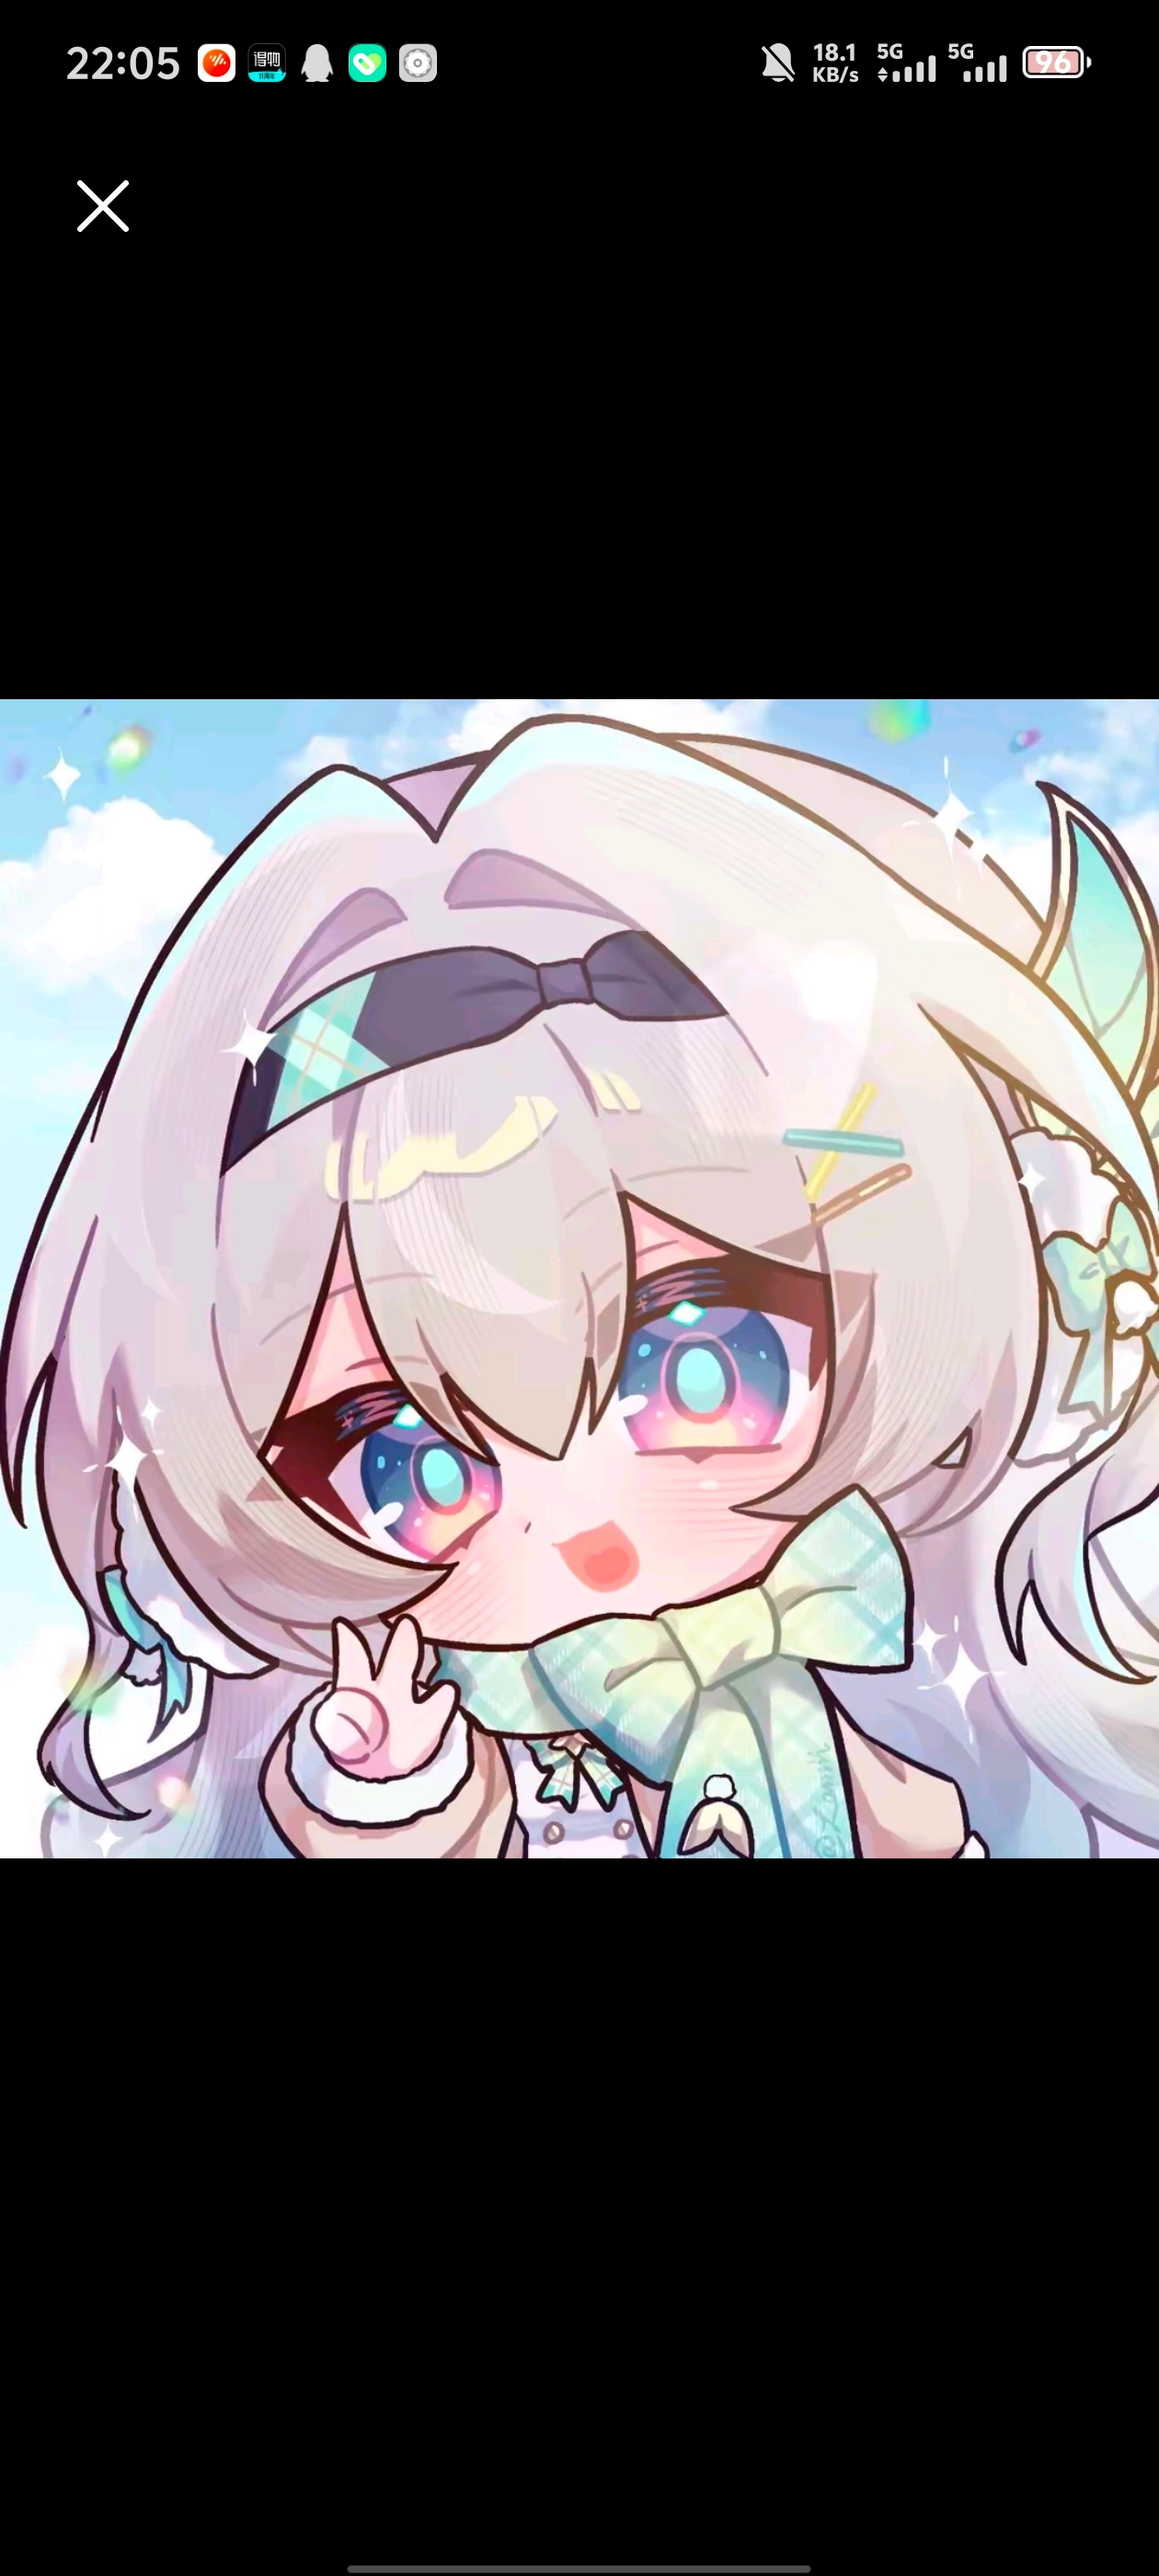
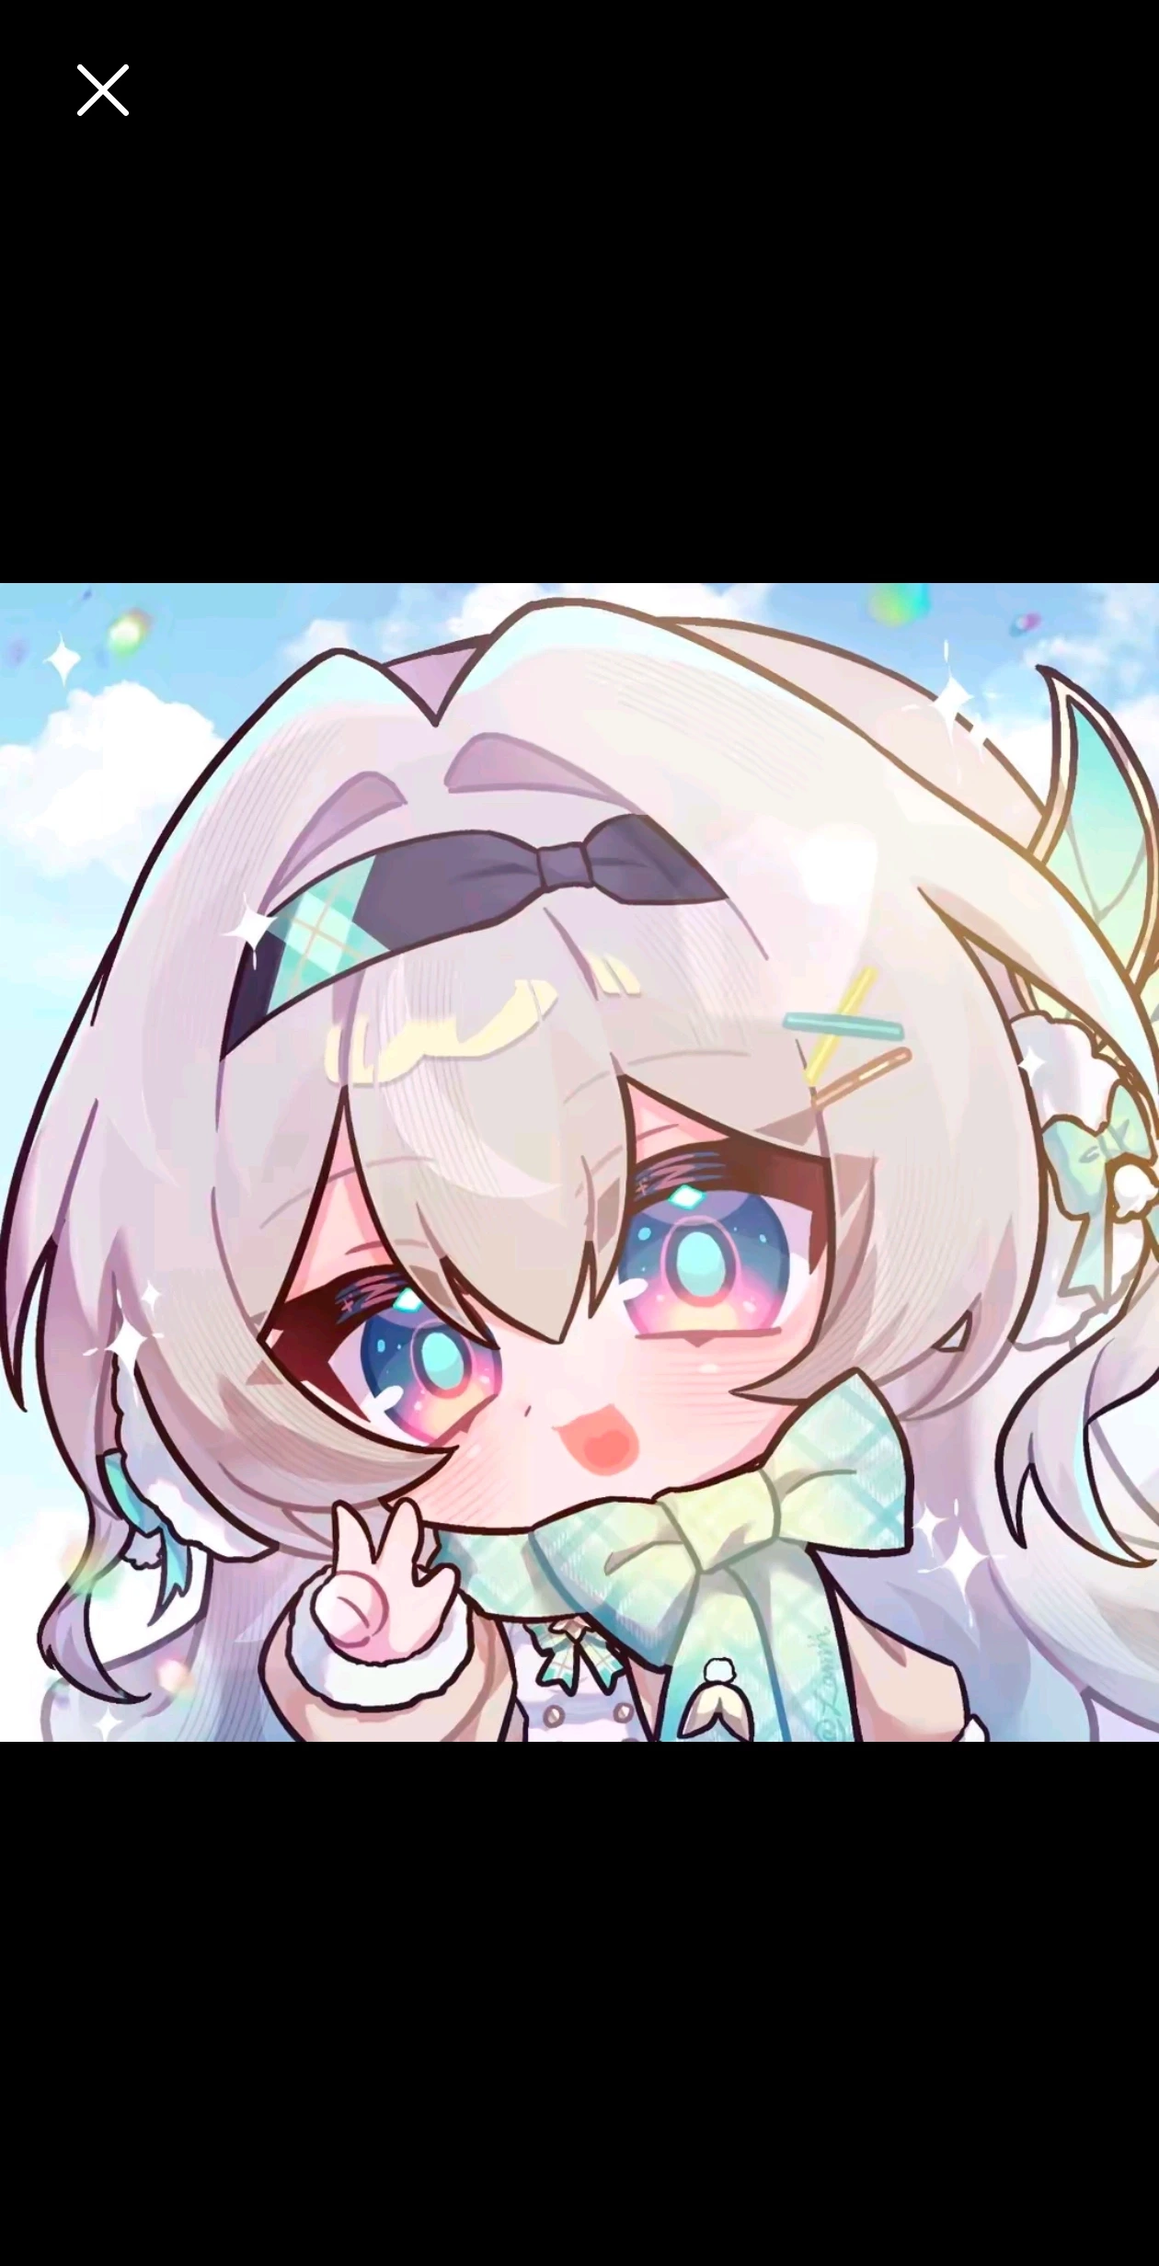
眼镜少女相册更名为昙露凝(纸嫁衣9罗浮梦女主)并补充6张官方图

Changed region(s): [[0.0, 0.25, 1.0, 0.7812], [0.0619, 0.0, 0.3714, 0.0938], [0.65, 0.0, 0.9286, 0.0312]]

diff --git a/crop_albums.py b/crop_albums.py
@@ -1,0 +1,70 @@
+# -*- coding: utf-8 -*-
+"""裁剪手机截图：去顶部状态栏和底部播放按钮，保留画面主体"""
+from PIL import Image
+import os, sys
+
+BASE = r"C:\Users\刘成毅\Doubao\chats\2026-09-30\new-chat\Mizuki-Blog\public\images\albums"
+
+# 需要裁剪的文件（相册相对路径）
+CROP_LIST = [
+    # 流萤收藏 - 手机截图
+    "firefly-collection/f-02.webp",   # 阳台（竖屏截图）
+    "firefly-collection/f-03.webp",   # 倚枕
+    "firefly-collection/f-04.webp",   # 水手服
+    "firefly-collection/f-05.webp",   # 托腮
+    "firefly-collection/f-06.webp",   # Q版托腮
+    "firefly-collection/f-07.webp",   # 小狗表情
+    "firefly-collection/f-08.webp",   # 惊讶插画
+    "firefly-collection/f-09.webp",   # 水手服立绘(带抖音水印,仅去底部水印)
+    # 猫猫日记 - 手机截图
+    "cat-diary/c-01.webp",            # 蓝眼猫
+    "cat-diary/c-02.webp",            # 布偶猫
+    # 二次元插画收藏 - 手机截图
+    "art-collection/a-02.webp",
+    "art-collection/a-03.webp",
+    "art-collection/a-04.webp",
+    "art-collection/a-05.webp",
+    "art-collection/a-06.webp",
+    "art-collection/a-08.webp",
+    "art-collection/a-10.webp",
+    "art-collection/a-11.webp",
+    "art-collection/a-12.webp",
+    "art-collection/a-13.webp",
+    "art-collection/a-14.webp",
+    "art-collection/a-15.webp",
+    "art-collection/a-16.webp",
+    "art-collection/a-17.webp",
+    "art-collection/a-18.webp",
+    "art-collection/a-19.webp",
+    "art-collection/a-21.webp",
+    "art-collection/a-22.webp",
+]
+
+def crop_photo(path):
+    img = Image.open(path)
+    w, h = img.size
+    if h >= 2700:
+        # 竖屏截图：顶部裁状态栏(4.5%)，底部裁播放按钮(到92.5%)
+        top = int(h * 0.045)
+        bottom = int(h * 0.925)
+        out = img.crop((0, top, w, bottom))
+    elif h >= 1900:
+        # 立绘带底部水印：只裁底部水印
+        bottom = int(h * 0.935)
+        out = img.crop((0, 0, w, bottom))
+    else:
+        out = img
+    # 转 RGB（webp 兼容）并保存
+    if out.mode != "RGB":
+        out = out.convert("RGB")
+    out.save(path, "WEBP", quality=92)
+    return (w, h, out.size)
+
+for rel in CROP_LIST:
+    p = os.path.join(BASE, rel)
+    if not os.path.exists(p):
+        print(f"MISS {rel}")
+        continue
+    orig = Image.open(p).size
+    new = crop_photo(p)
+    print(f"OK {rel}: {orig} -> {new}")
